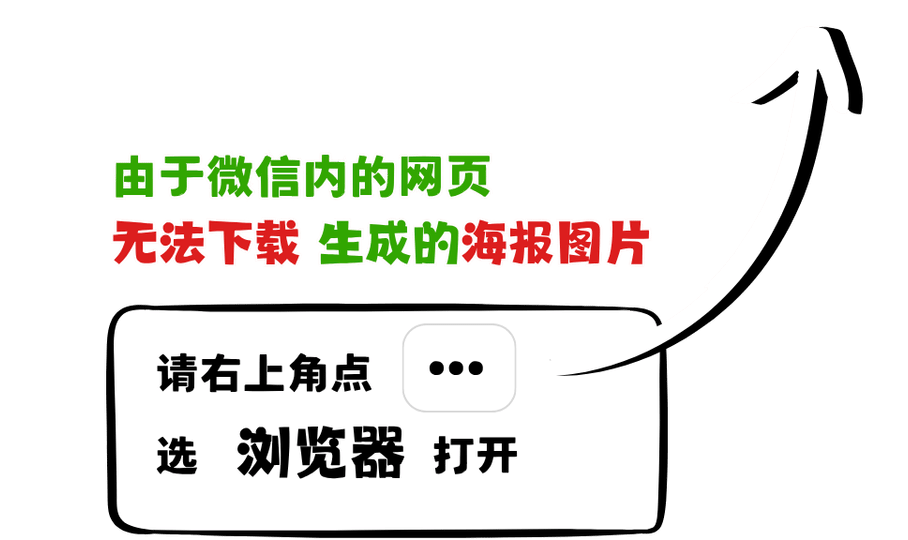
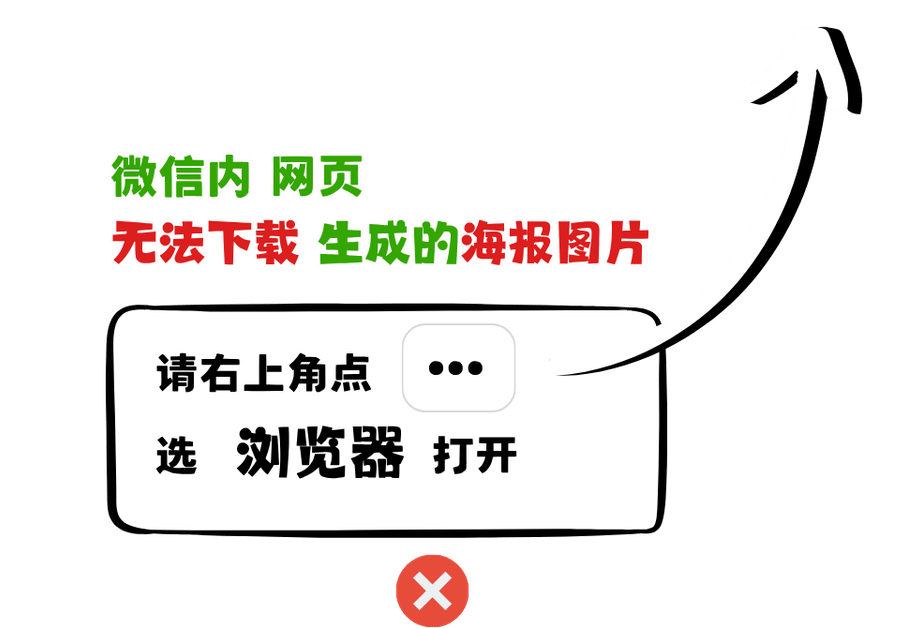
9999888

Changed region(s): [[0.0926, 0.0296, 0.957, 0.7111], [0.0926, 0.6519, 0.7409, 1.0], [0.6174, 0.6815, 0.6792, 0.7111]]

diff --git a/postdiy/script.js b/postdiy/script.js
@@ -917,18 +917,11 @@ function loadTemplates() {
   // 使用setTimeout模拟加载延迟
   setTimeout(() => {
     try {
-      const templates = window.utils.getAllTemplates();
-      
-      // 更新模板计数
-      templatesCount.textContent = `${templates.length} 个模板`;
-      
-      // 渲染模板
-      renderTemplates(templates);
-      
       // 更新节日标签
       updateFestivalTags();
       
-      // 应用当前筛选条件
+      // 直接应用筛选条件，只加载当前节日匹配的模板
+      // 不再先渲染全部模板再过滤，避免浪费带宽
       applyFilters();
     } catch (error) {
       console.error('加载模板失败:', error);
@@ -940,7 +933,7 @@ function loadTemplates() {
   }, 500);
 }
 
-// 渲染模板（分批加载，每批4个，避免一次性加载卡顿）
+// 渲染模板
 function renderTemplates(templates) {
   templatesGrid.innerHTML = '';
 
@@ -948,34 +941,13 @@ function renderTemplates(templates) {
     return;
   }
 
-  const BATCH_SIZE = 4;
-  var totalIndex = 0; // 全局索引，用于动画延迟计算
-
-  function processBatch(startIdx) {
-    var endIdx = Math.min(startIdx + BATCH_SIZE, templates.length);
-    
-    // 创建当前批次的卡片
-    for (var i = startIdx; i < endIdx; i++) {
-      var templateCard = createTemplateCard(templates[i]);
-      templateCard.classList.add('template-card-enter');
-      templateCard.style.animationDelay = (totalIndex * 60) + 'ms';
-      templatesGrid.appendChild(templateCard);
-      totalIndex++;
-    }
-    
-    // 还有未处理的模板，继续下一批
-    if (endIdx < templates.length) {
-      // 使用 requestAnimationFrame 确保浏览器有空闲渲染当前批次
-      requestAnimationFrame(function() {
-        setTimeout(function() {
-          processBatch(endIdx);
-        }, 50);
-      });
-    }
-  }
-  
-  // 启动第一批
-  processBatch(0);
+  // 创建模板卡片并添加逐个叠加动画
+  templates.forEach((template, index) => {
+    const templateCard = createTemplateCard(template);
+    templateCard.classList.add('template-card-enter');
+    templateCard.style.animationDelay = `${index * 60}ms`;
+    templatesGrid.appendChild(templateCard);
+  });
 }
 
 // 创建模板卡片

diff --git a/postdiy/index.html b/postdiy/index.html
@@ -353,7 +353,7 @@
         </div>
         <p style="margin: 0 0 24px 0; color: #333; font-size: 15px; line-height: 1.6;">后续录入的推广信息将无法保存。</p>
         <div style="display: flex; flex-direction: column; gap: 10px;">
-          <a id="loginPromptRegisterBtn" href="login/index.html" style="background: linear-gradient(135deg, #d32f2f, #f44336); color: white; border: none; border-radius: 8px; padding: 12px 20px; font-size: 15px; cursor: pointer; text-decoration: none; display: block; text-align: center;">注册/登录</a>
+          <a id="loginPromptRegisterBtn" href="javascript:void(0)" onclick="window.location.href='login/index.html?redirect='+encodeURIComponent(window.location.href)" style="background: linear-gradient(135deg, #d32f2f, #f44336); color: white; border: none; border-radius: 8px; padding: 12px 20px; font-size: 15px; cursor: pointer; text-decoration: none; display: block; text-align: center;">注册/登录</a>
           <button id="loginPromptCancelBtn" style="background: #f5f5f5; color: #666; border: 1px solid #ddd; border-radius: 8px; padding: 10px 20px; font-size: 14px; cursor: pointer; width: 100%;">先随便看看</button>
         </div>
       </div>

diff --git a/postdiy/editor.html b/postdiy/editor.html
@@ -3,14 +3,18 @@
 <head>
   <meta charset="UTF-8">
   <meta name="viewport" content="width=device-width, initial-scale=1.0, maximum-scale=1.0, user-scalable=no">
-  <!-- 登录状态预检：未登录则立即跳转，不加载任何资源 -->
+  <!-- 登录状态预检：微信环境下跳过登录检查（先显示遮罩），非微信环境未登录则跳转 -->
   <script>
-    // 必须同时存在 userId 和 userInfo 才算已登录，避免伪登录态（残留 userId 但 userInfo 缺失）
     (function() {
+      // 微信环境下不拦截，让页面加载后由 wechatWarning 显示图片遮罩
+      var ua = navigator.userAgent.toLowerCase();
+      var isWechat = ua.indexOf('micromessenger') !== -1;
+      if (isWechat) return;
+      
+      // 非微信环境：检查登录状态
       var userId = localStorage.getItem('postdiy_user_id');
       var userInfo = localStorage.getItem('postdiy_user_info');
       if (!userId || !userInfo) {
-        // 清理可能残留的伪登录数据
         if (userId && !userInfo) {
           localStorage.removeItem('postdiy_user_id');
         }

diff --git a/postdiy/login/index.html b/postdiy/login/index.html
@@ -655,8 +655,8 @@
           redirect = decodeURIComponent(redirect)
           return redirect
         }
-        // 默认跳转到首页
-        return 'index.html'
+        // 默认跳转到首页（使用相对根目录路径，避免在login/目录下解析为login/index.html）
+        return '../index.html'
       },
       
       // 跳转回原页面
